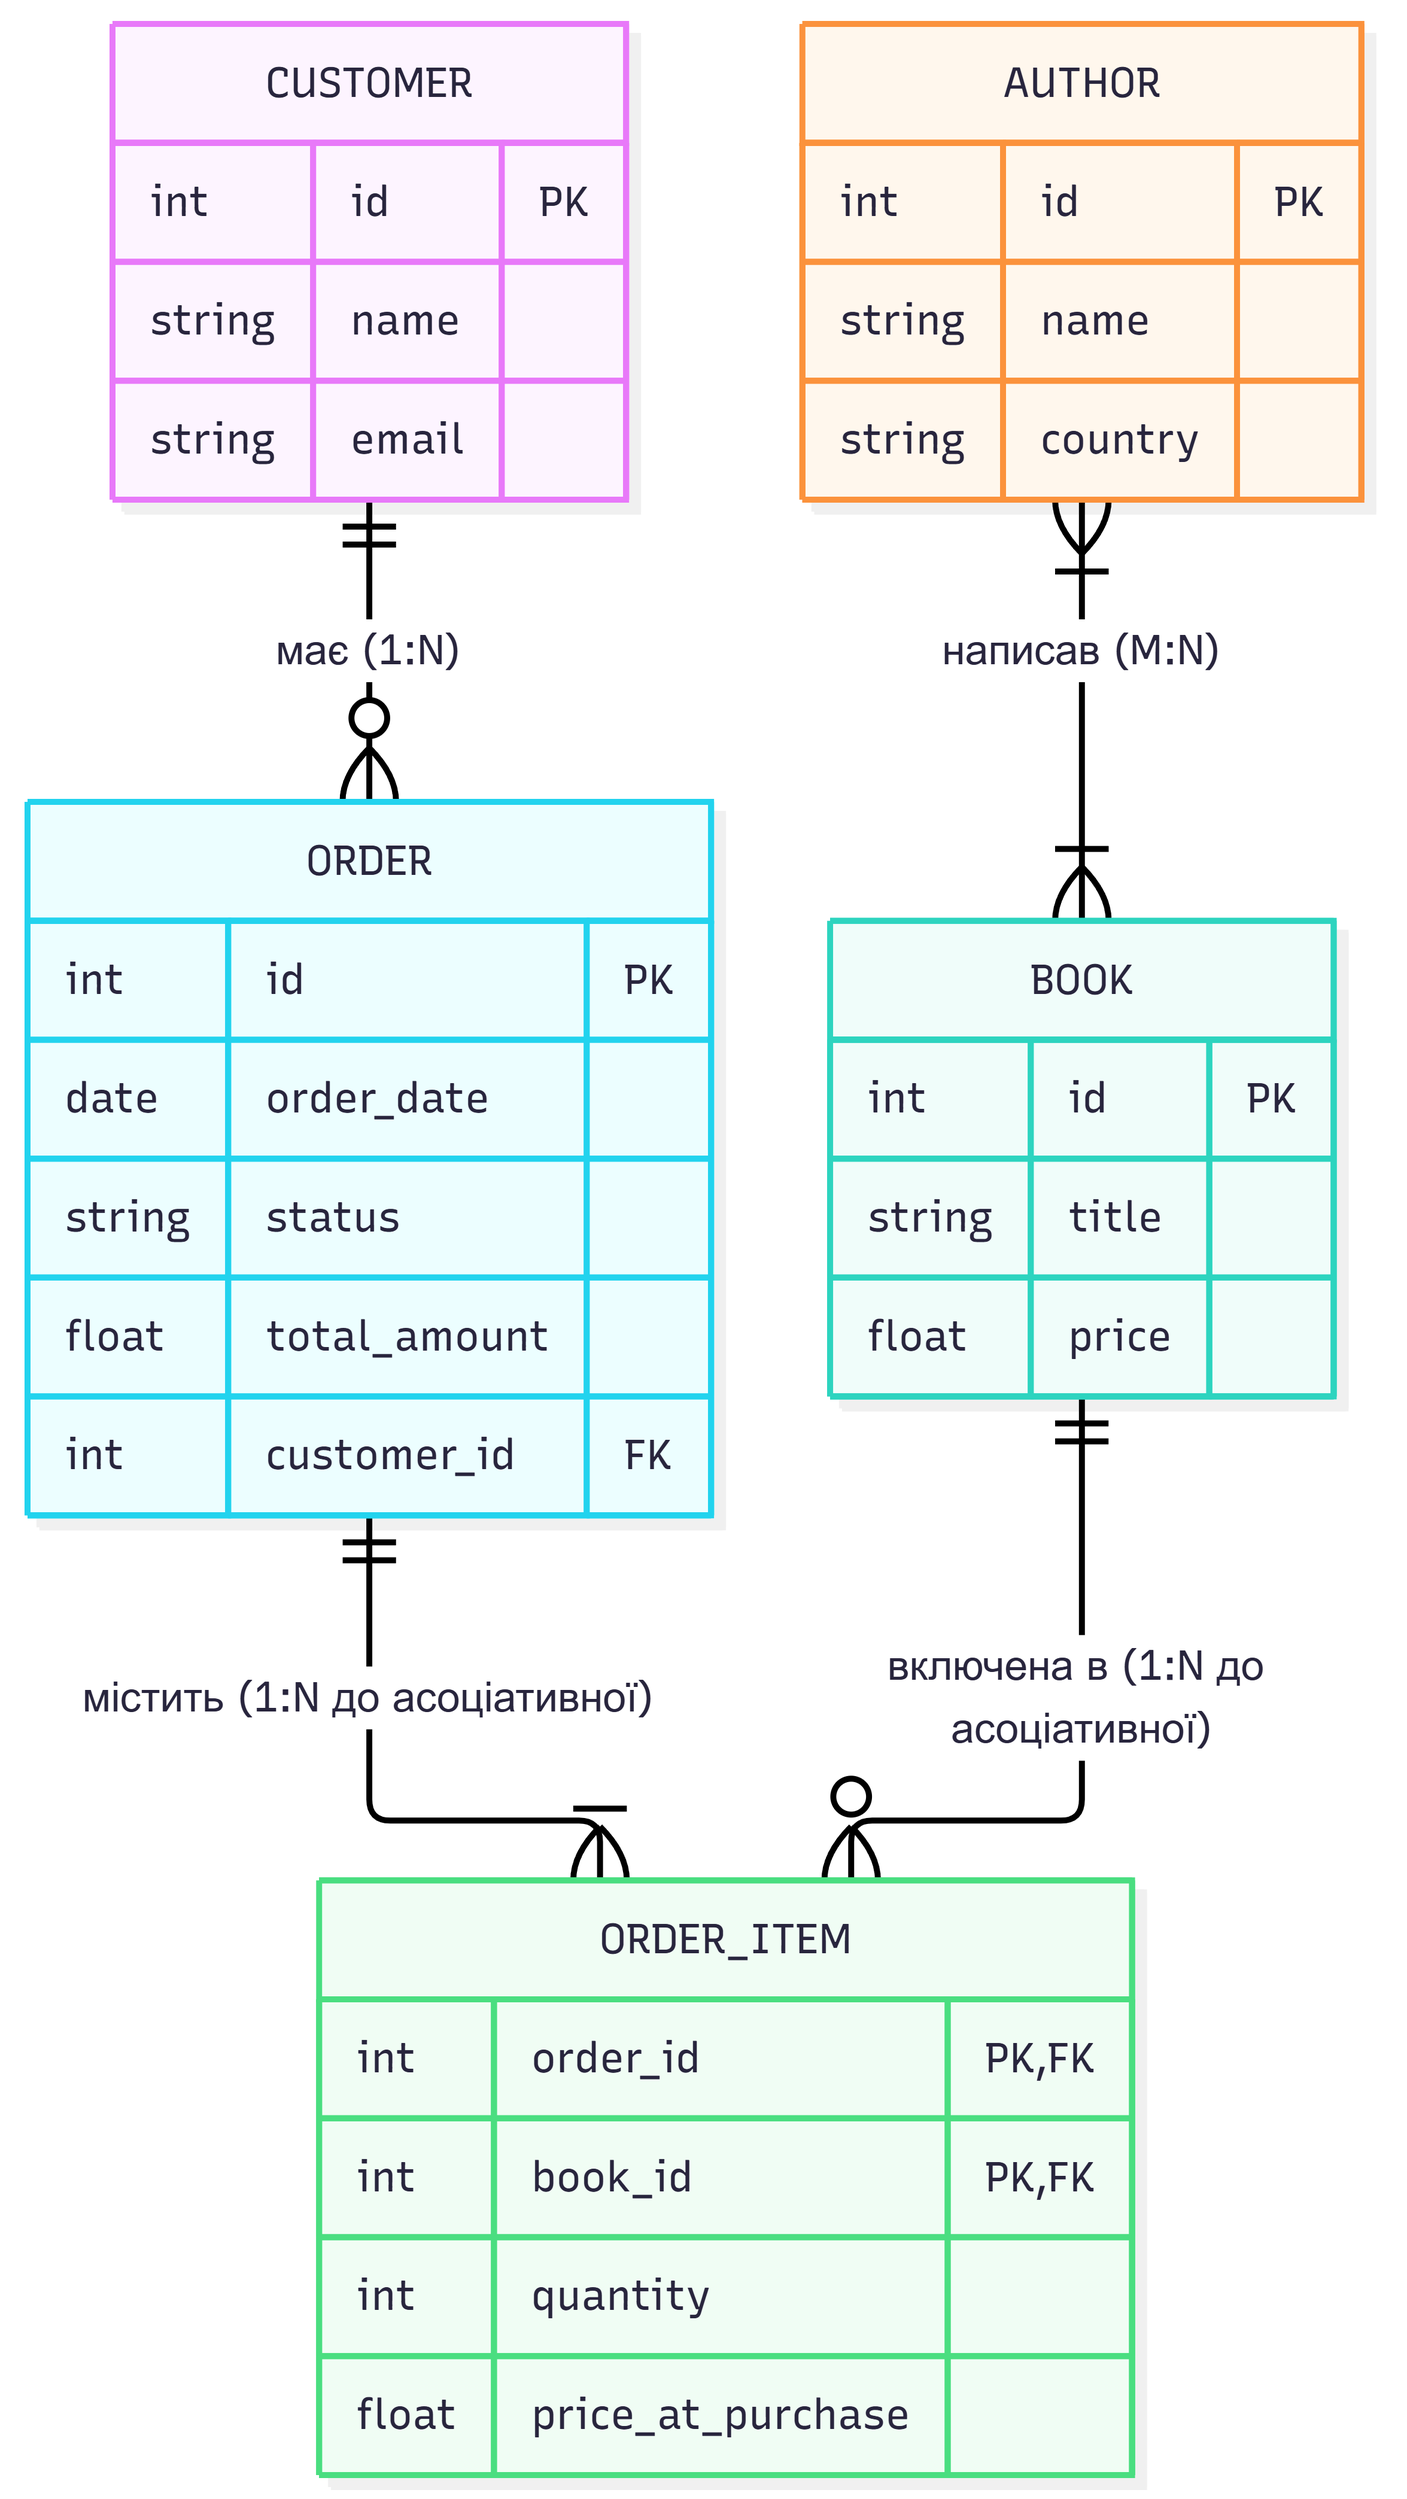
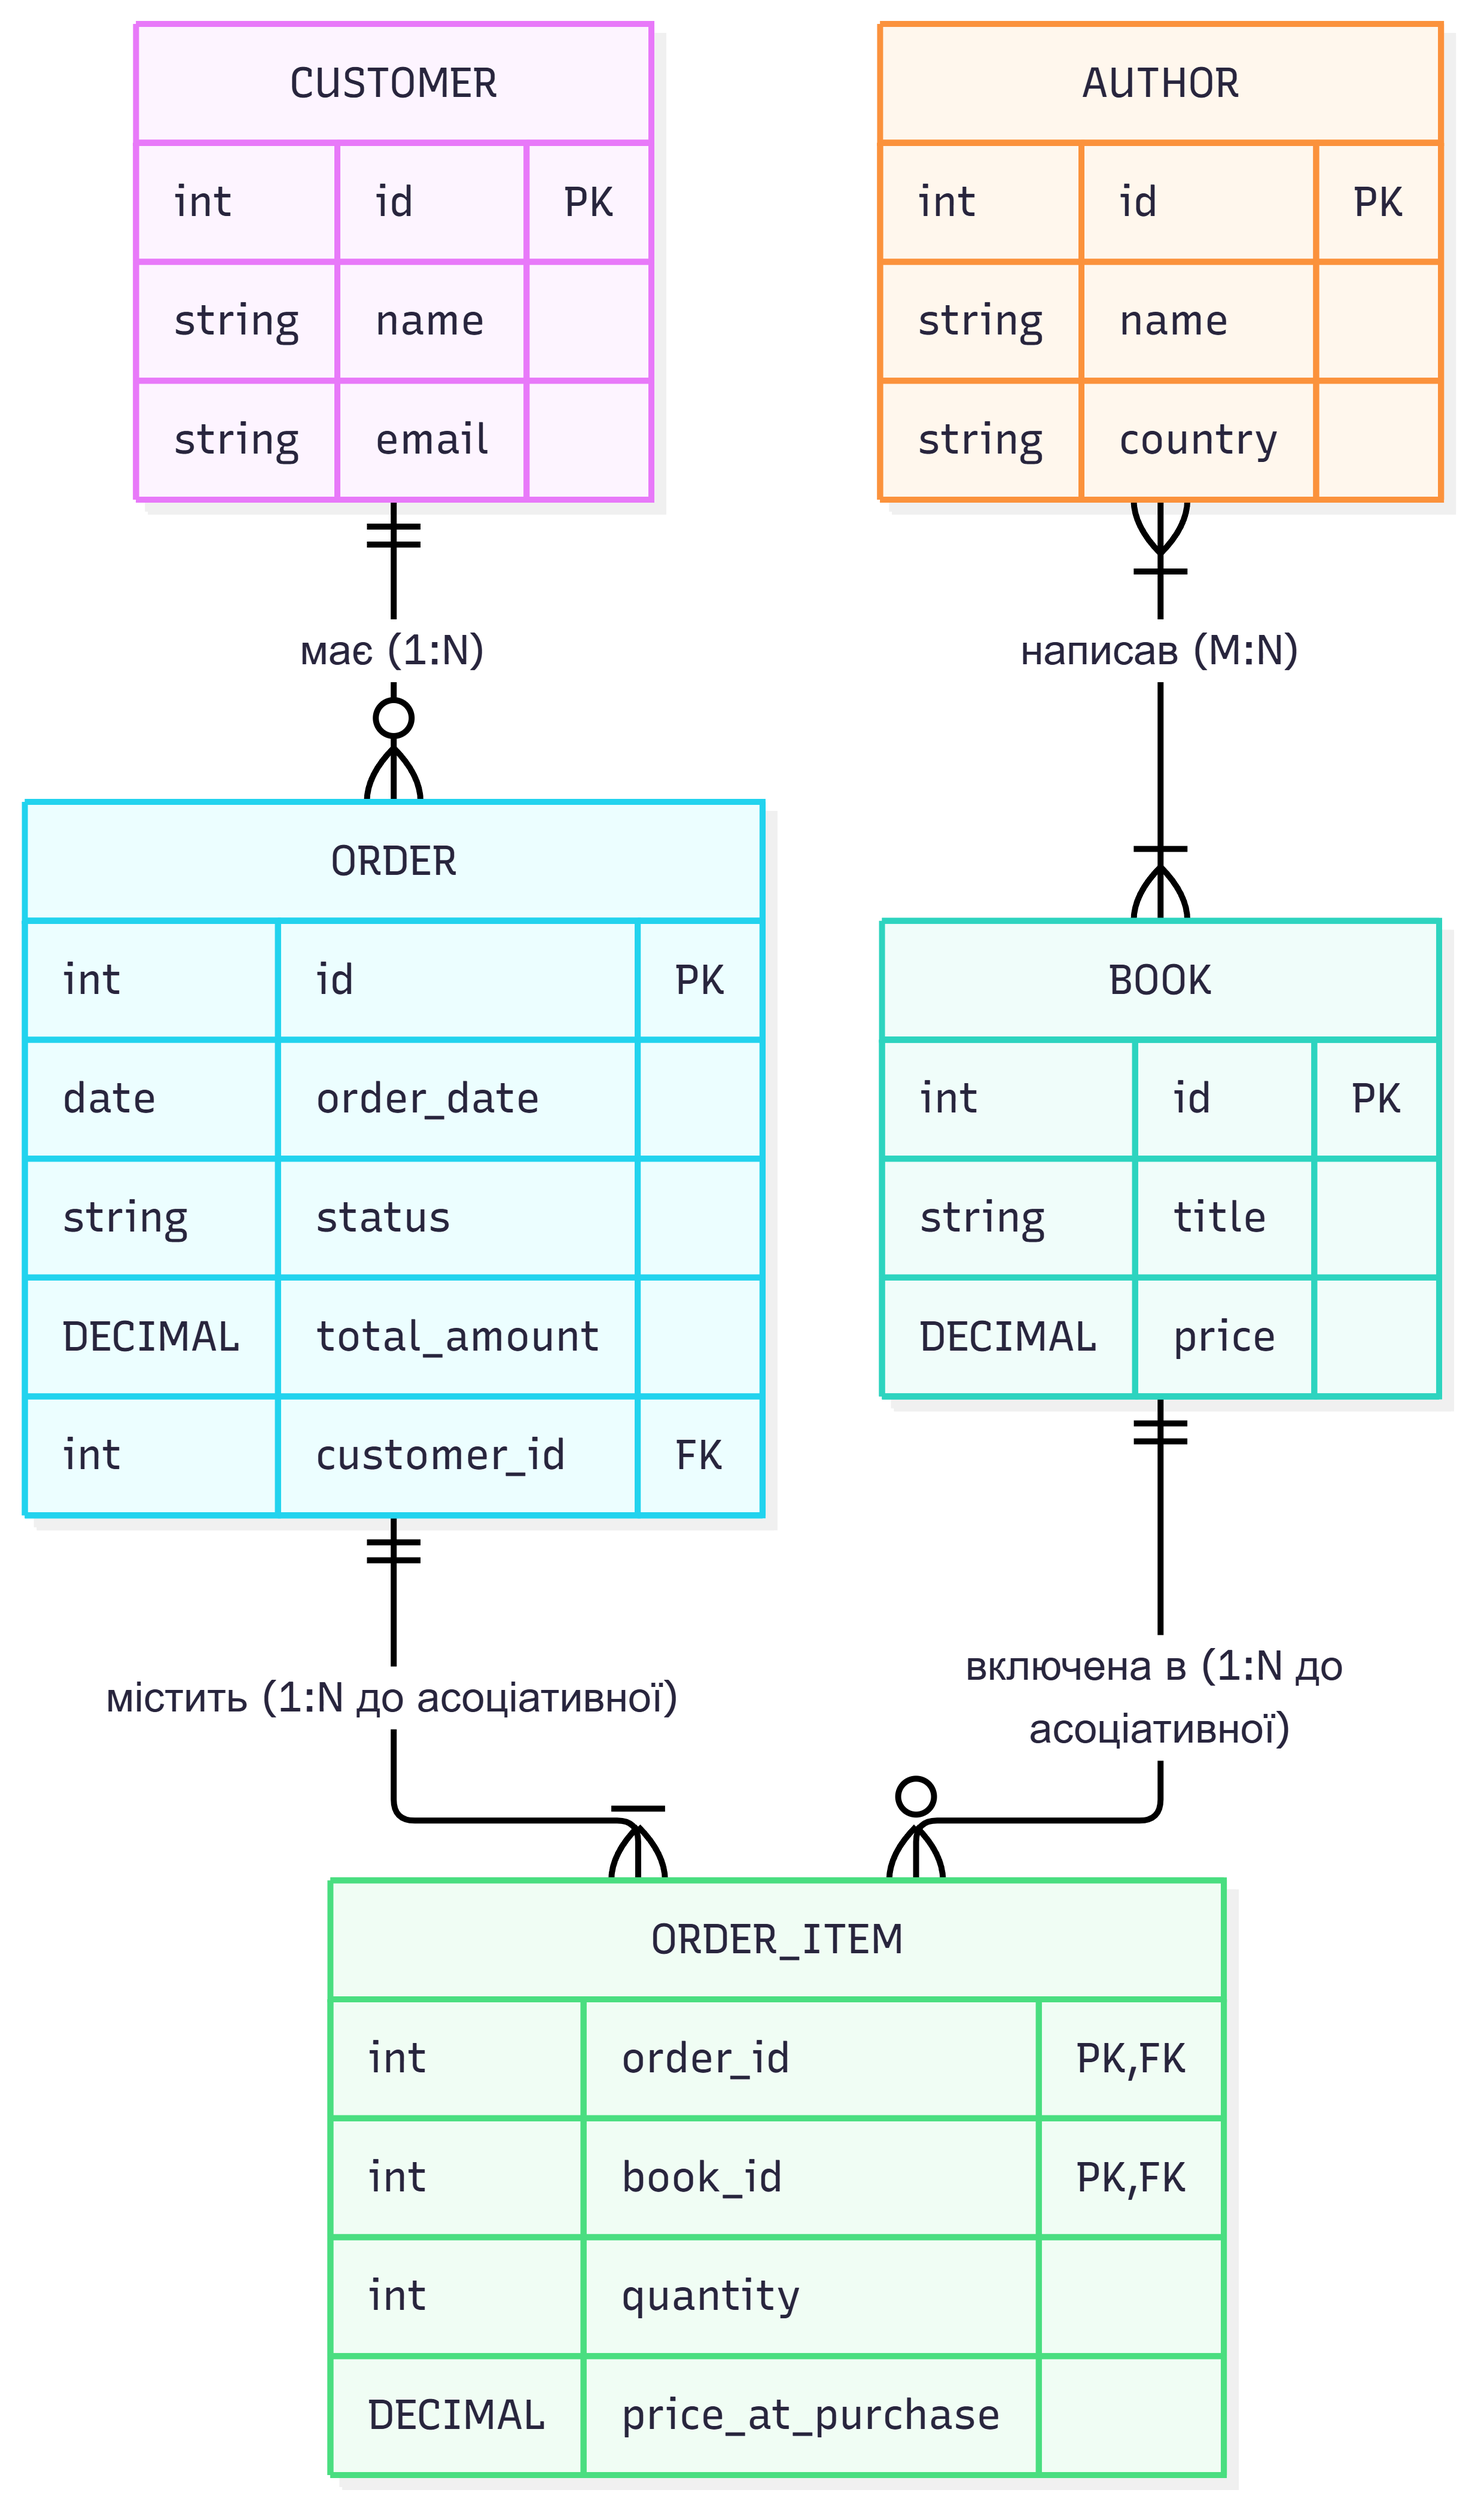
enforce DECIMAL type for money values in spec

diff --git a/LAB1/spec.md b/LAB1/spec.md
@@ -4,13 +4,13 @@
 
 \## Сутності та атрибути
 
-1\. \*\*Customer\*\* (Клієнт): id, name, email.
+1\. \*\*Customer\*\* (Клієнт): id(int), name(string), email(string).
 
-2\. \*\*Book\*\* (Книга): id, title, price.
+2\. \*\*Book\*\* (Книга): id(int), title(string), price(DECIMAL).
 
-3\. \*\*Author\*\* (Автор): id, name, country.
+3\. \*\*Author\*\* (Автор): id(int), name(string), country(string).
 
-4\. \*\*Order\*\* (Замовлення): id, order\_date, status, total\_amount.
+4\. \*\*Order\*\* (Замовлення): id(int), order\_date(date), status(string), total\_amount(DECIMAL).
 
 5\. \*\*OrderItem\*\* (Позиція замовлення): quantity, price\_at\_purchase.
 
@@ -18,9 +18,13 @@
 
 \## Зв'язки
 
-\- Клієнт може мати багато замовлень (1:N).
+* Клієнт може мати багато замовлень (1:N).
+* Книга може мати кількох авторів, а автор написати кілька книг (M:N).
+* Замовлення містить багато книг, книга може бути в багатьох замовленнях (M:N). Цей зв'язок реалізується через асоціативну сутність OrderItem, оскільки вона має власні атрибути.
 
-\- Книга може мати кількох авторів, а автор написати кілька книг (M:N).
 
-\- Замовлення містить багато книг, книга може бути в багатьох замовленнях (M:N). Цей зв'язок реалізується через асоціативну сутність OrderItem, оскільки вона має власні атрибути.
+
+\## Критерії прийняття
+
+* Для всіх грошових полів (price, price\_at\_purchase, total\_amount) використовувати тип DECIMAL.
 

diff --git a/LAB1/model.md b/LAB1/model.md
@@ -18,7 +18,7 @@ erDiagram
 
 &#x20;       string title
 
-&#x20;       float price
+&#x20;       DECIMAL price
 
 &#x20;   }
 
@@ -44,7 +44,7 @@ erDiagram
 
 &#x20;       string status
 
-&#x20;       float total\_amount
+&#x20;       DECIMAL total\_amount
 
 &#x20;       int customer\_id FK
 
@@ -60,7 +60,7 @@ erDiagram
 
 &#x20;       int quantity
 
-&#x20;       float price\_at\_purchase
+&#x20;       DECIMAL price\_at\_purchase
 
 &#x20;   }
 
